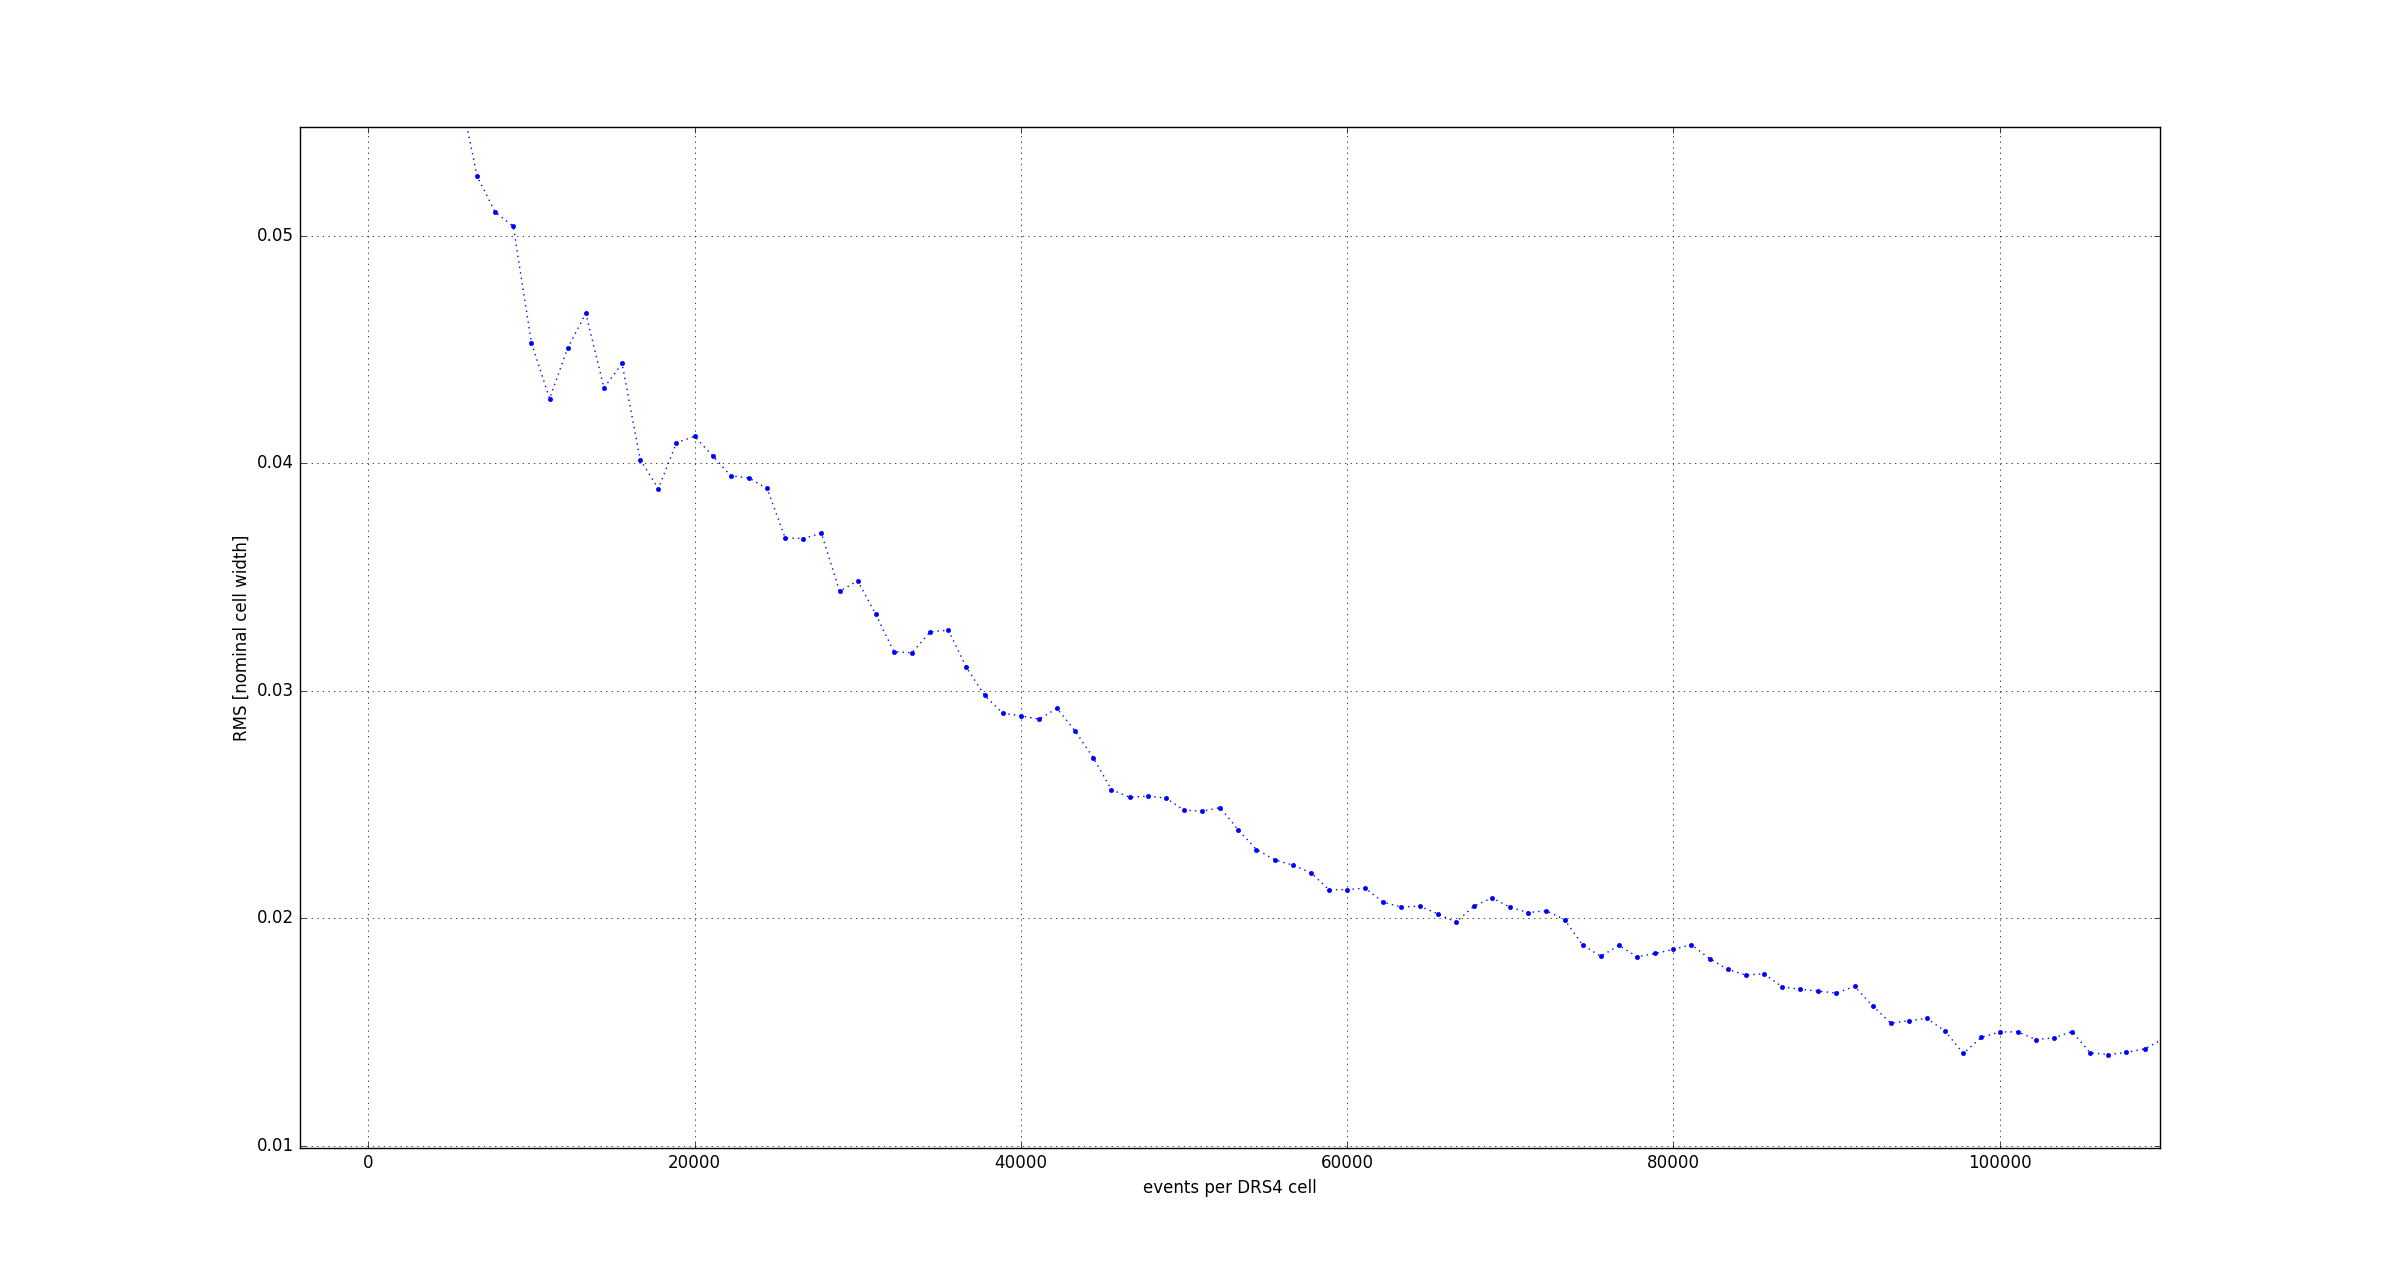
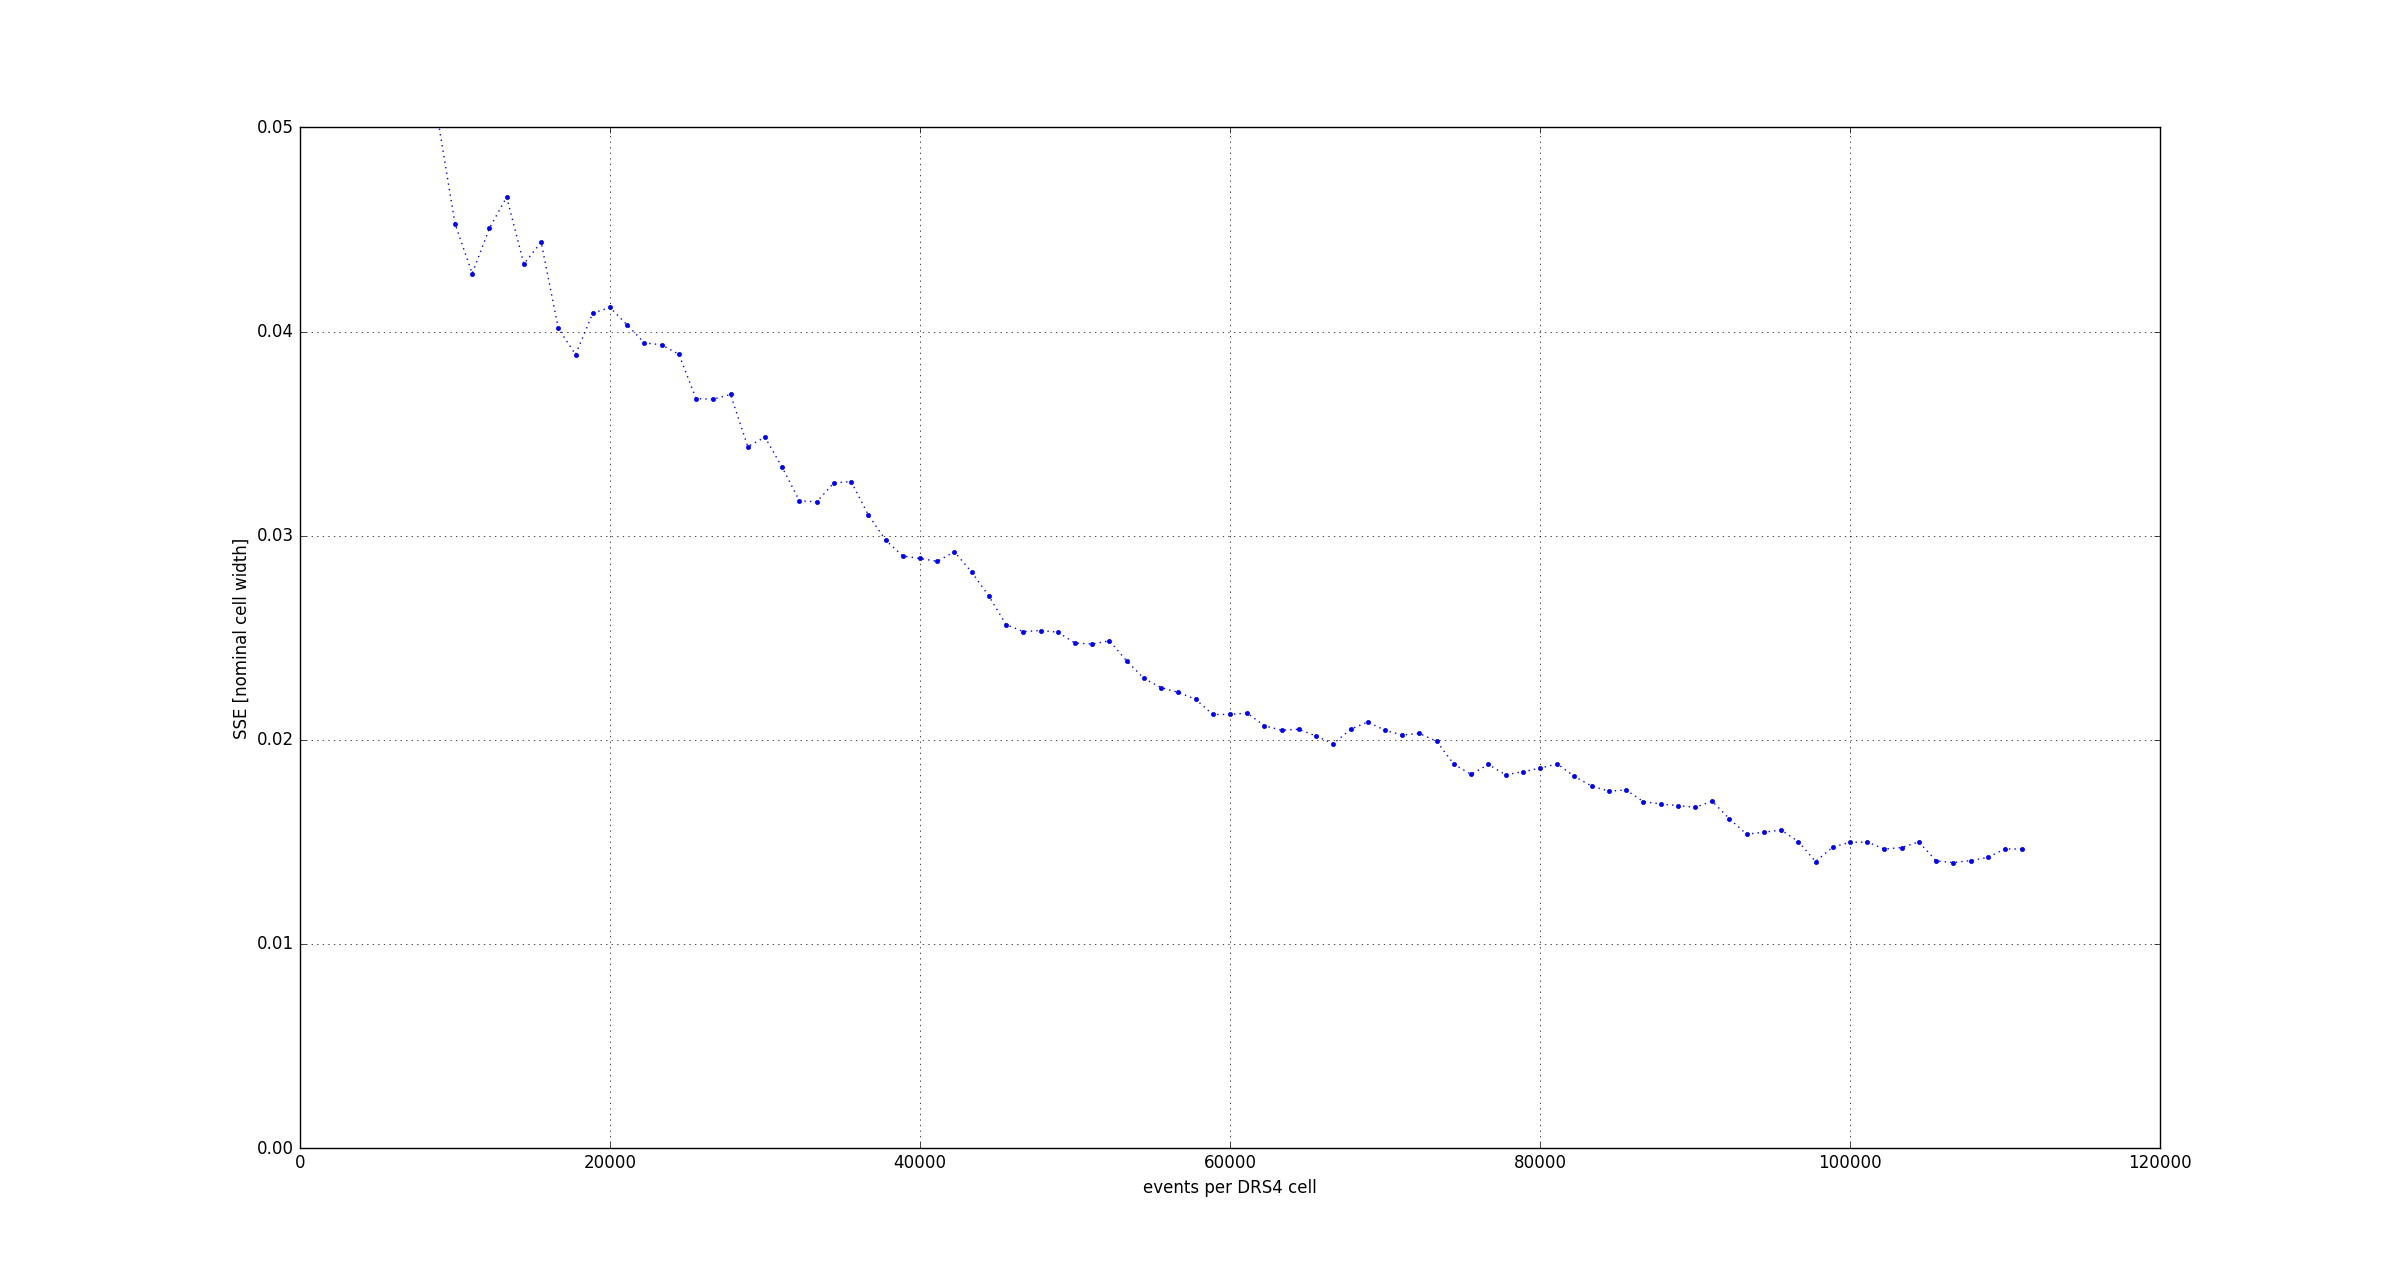
nicer

diff --git a/toy_simu_drs4_tc__pulse_max_counting/measure_accuracy.py b/toy_simu_drs4_tc__pulse_max_counting/measure_accuracy.py
@@ -37,16 +37,12 @@ for j in range(100):
 
         pulse_time = trigger_time + period/2
         p = pulse(event_sample_times, x0=pulse_time, sigma=pulse_width, A=pulse_height)
-        X = p.argmax()
-        Xmod = (X + stop_cell) % N_cells
-        max_cell.append(Xmod)
+        max_cell.append((p.argmax() + stop_cell) % N_cells)
     
 
     h, _ = np.histogram(np.array(max_cell), bins=np.arange(N_cells+1)-0.5)
     h = h.astype('f8')
     h /= h.mean() / nominal_cell_width
-
-    #h -= cell_width_B
 
     residuals = np.sqrt(((h - cell_width_B)**2).sum()) / nominal_cell_width
     results.append((len(max_cell)/N_cells, residuals))
@@ -56,9 +52,9 @@ for j in range(100):
     plt.clf()
     plt.plot(RR[0], RR[1], '.:' )
     plt.grid()
-    plt.ylabel("RMS [nominal cell width]")
+    plt.ylabel("SSE [nominal cell width]")
     plt.xlabel("events per DRS4 cell")
     plt.pause(0.01)
-
+plt.ylim(0, 0.05)
 plt.ioff()
 plt.show()
